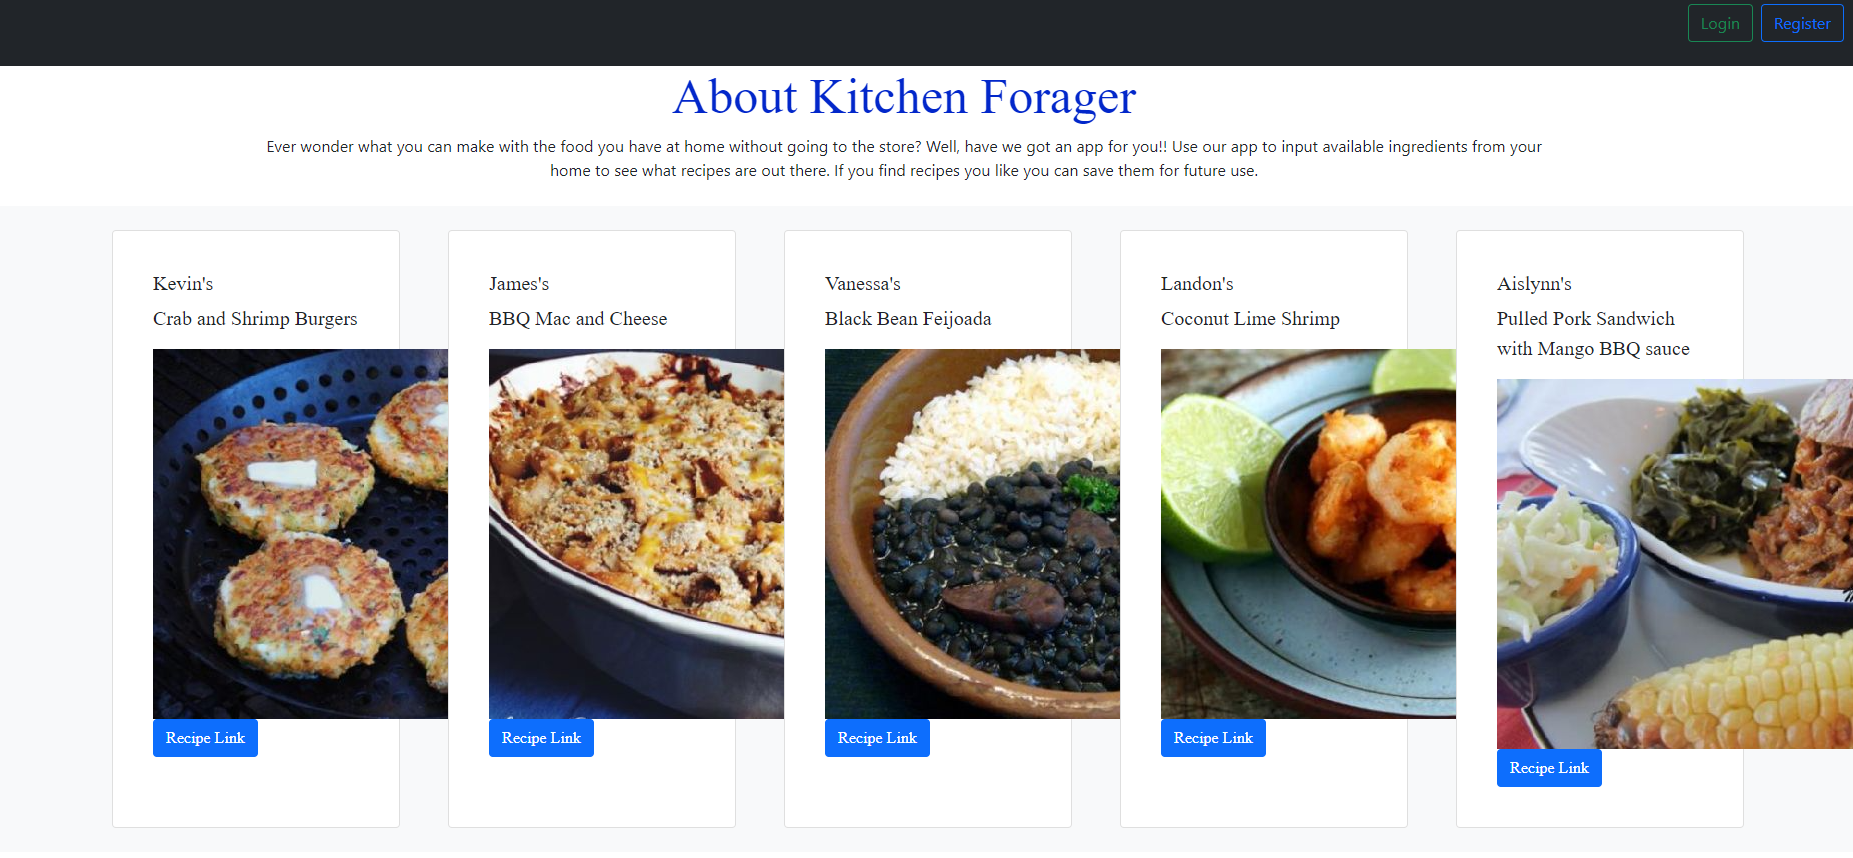
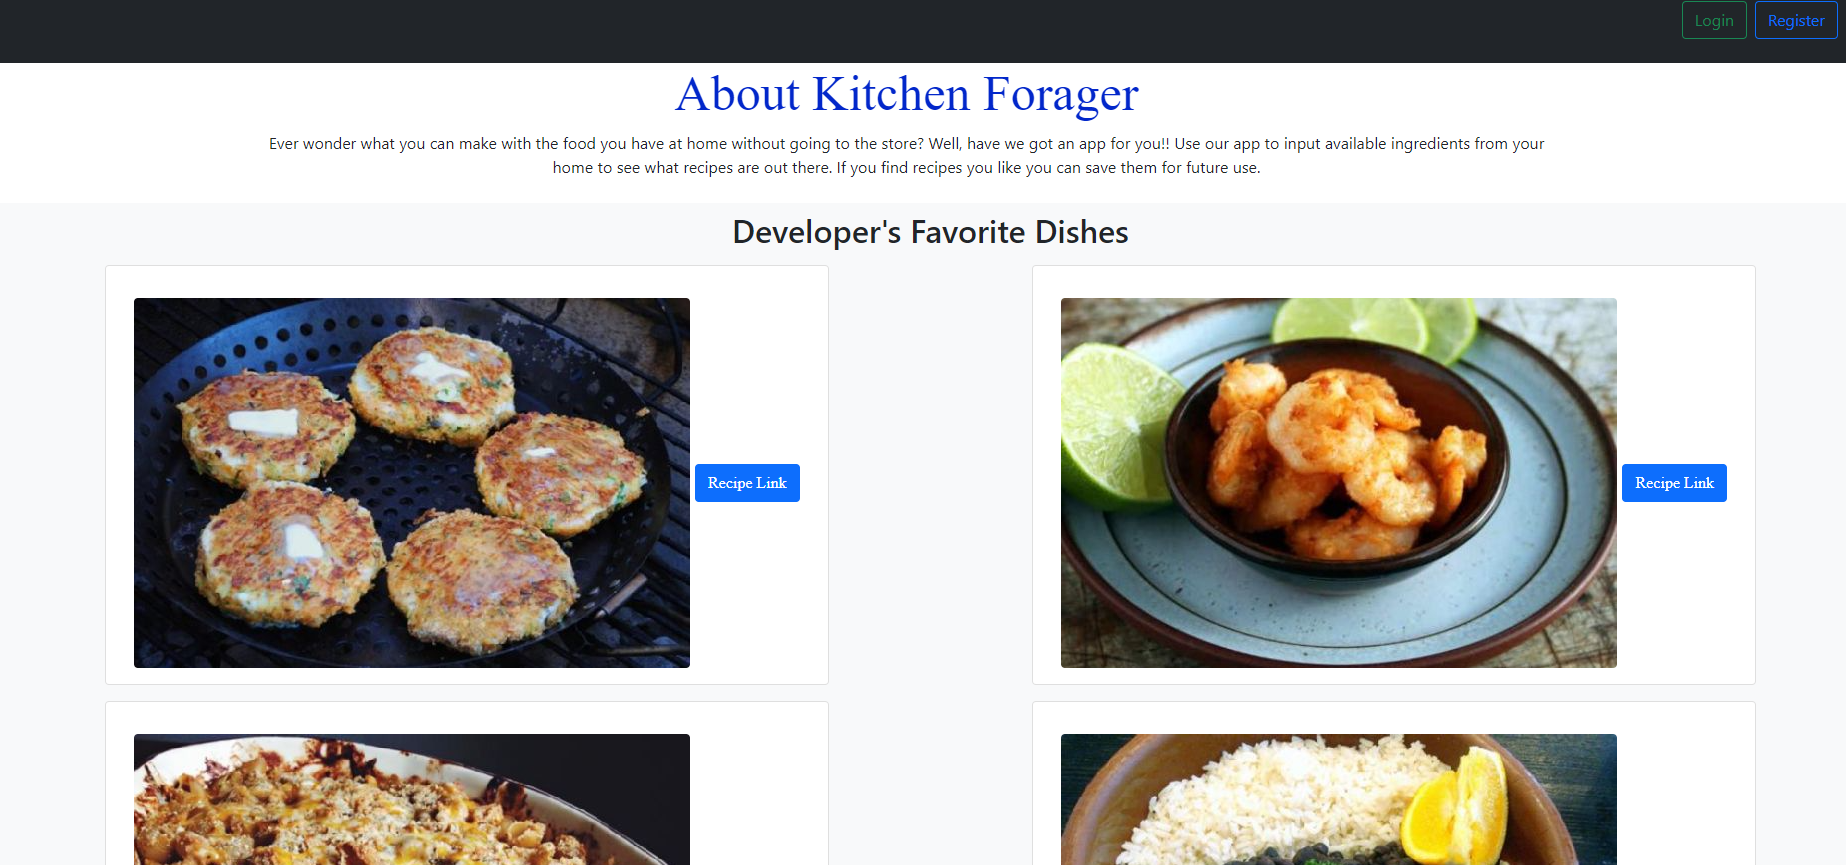
updated images

diff --git a/ReadMe.md b/ReadMe.md
@@ -57,4 +57,4 @@
 ![Alt text](./images/homePage.PNG)
 ![Alt text](./images/loginPage.PNG)
 ![Alt text](./images/registrationPage.PNG)
-![Alt text](./images/userHomePage.PNG)
+![Alt text](./images/userFavoriteHome.PNG)
